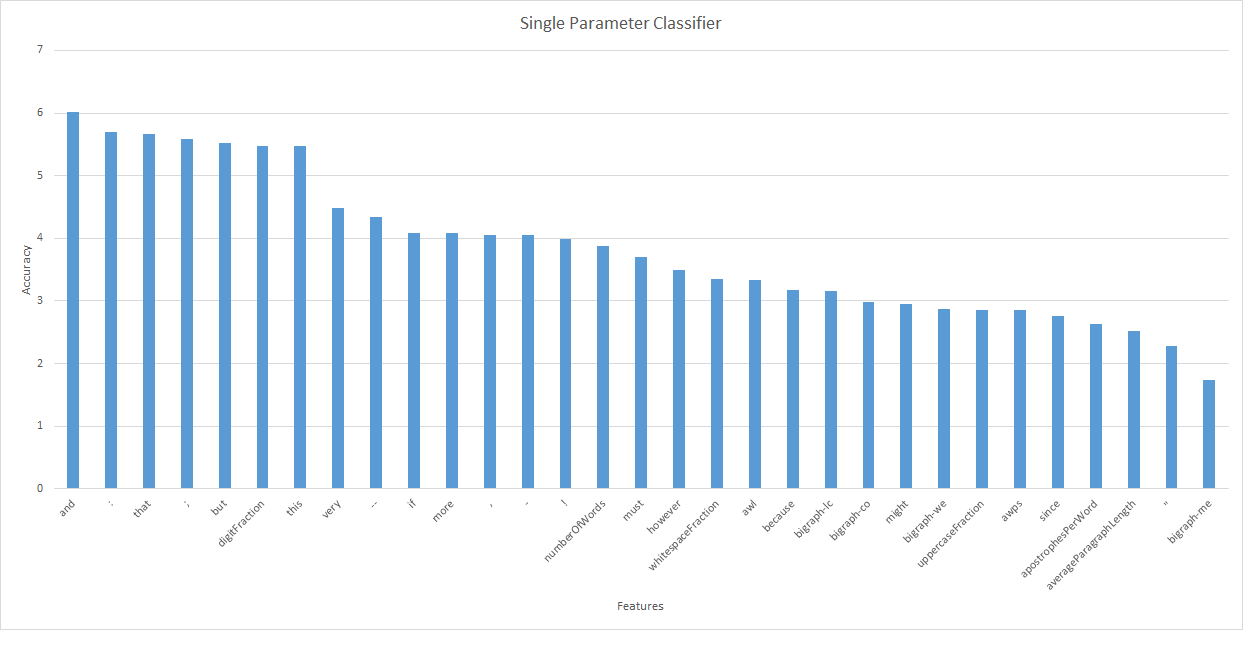
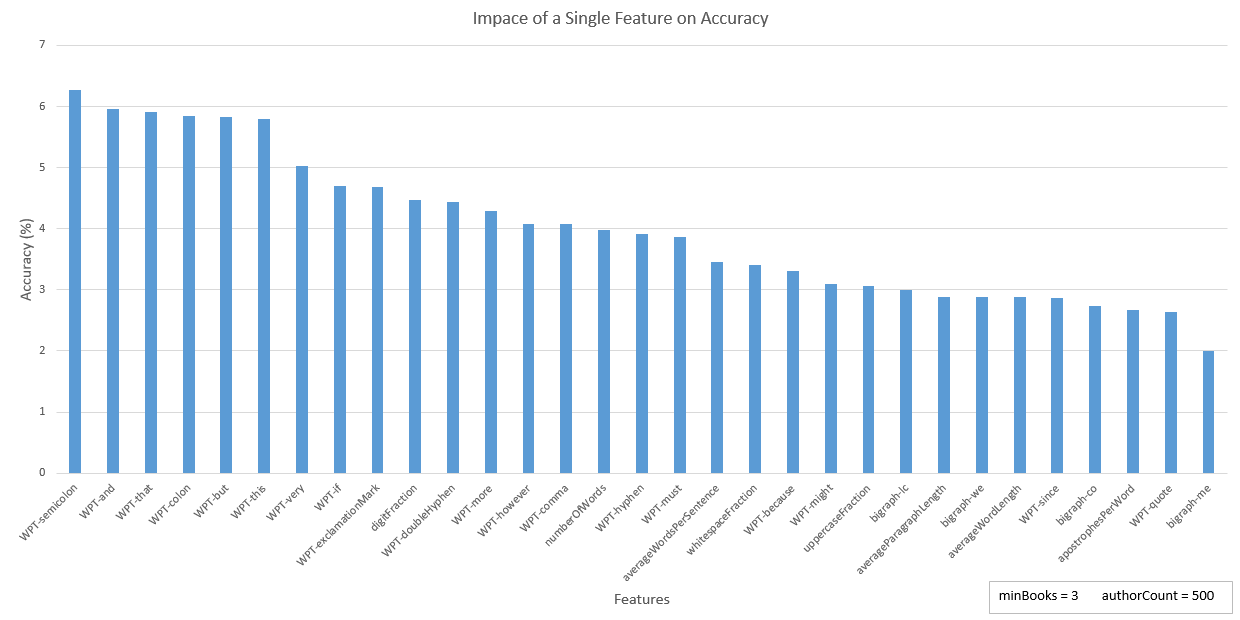
added single and adding features on accuracy

diff --git a/SourceCode/main.py b/SourceCode/main.py
@@ -113,29 +113,29 @@ def runOneSimulation(books):
     print("average accuracy: " + str(averageAccuracy))
     return averageAccuracy
     
-def weedForParameters(books):
+def singleParameters(books):
     allDataKeys = list(books[0].data.keys())
-    
+     
     print(allDataKeys)
     random.shuffle(allDataKeys)
     print(allDataKeys)
-    
+     
     #startingDataKey = allDataKeys[0]
-    
+     
     currentDataKeys = []
     #currentDataKeys = [ startingDataKey]
     for book in books:
         book.setDataKeys(currentDataKeys)
-    
+     
     #bestAccuracy = runOneSimulation(books)
     bestAccuracy = 0
-    
+     
     #with open("weedingParams.txt", 'w+') as oFile:
     with open("singleParams.txt", 'w+') as oFile:
         for key in allDataKeys:
             #if key == startingDataKey:
             #    continue
-            
+             
             currentDataKeys = [key]
             #currentDataKeys.append(key)
             print("testing with currentDataKeys: ")
@@ -162,11 +162,11 @@ def weedForParameters(books):
                 # oFile.write("new best accuracy: " + str(bestAccuracy))
                 # oFile.write('\n')
                 #===============================================================
-                
+                 
             oFile.write(key + "\t" + str(accuracy))
             oFile.write('\n')
-                
-        
+                 
+         
         print(currentDataKeys)    
         print("best Accuracy: " + str(bestAccuracy))
         #=======================================================================
@@ -175,6 +175,109 @@ def weedForParameters(books):
         # oFile.write("best Accuracy: " + str(bestAccuracy))
         #=======================================================================
         #oFile.write('\n')
+         
+        print("all: ")
+        print(allDataKeys)
+        
+def weedForParameters(books):
+    allDataKeys = list(books[0].data.keys())
+     
+    print(allDataKeys)
+    random.shuffle(allDataKeys)
+    print(allDataKeys)
+     
+    #startingDataKey = allDataKeys[0]
+     
+    currentDataKeys = []
+    #currentDataKeys = [ startingDataKey]
+    for book in books:
+        book.setDataKeys(currentDataKeys)
+     
+    #bestAccuracy = runOneSimulation(books)
+    bestAccuracy = 0
+     
+    with open("weedingParams.txt", 'w+') as oFile:
+    #with open("singleParams.txt", 'w+') as oFile:
+        for key in allDataKeys:
+            #if key == startingDataKey:
+            #    continue
+             
+            #currentDataKeys = [key]
+            currentDataKeys.append(key)
+            print("testing with currentDataKeys: ")
+            print(currentDataKeys)
+            for book in books:
+                book.setDataKeys(currentDataKeys)
+            accuracy = runOneSimulation(books)
+            if accuracy < bestAccuracy:
+                print("bad key: " + key)
+                #===============================================================
+                # oFile.write("bad key: " + key)
+                # oFile.write('\n')
+                # oFile.write("best accuracy: " + str(bestAccuracy))
+                # oFile.write('\n')
+                #===============================================================
+                currentDataKeys.remove(key)
+            else:
+                bestAccuracy = accuracy
+                print("good key: " + key)
+                print("new best accuracy: " + str(bestAccuracy))
+                #===============================================================
+                # oFile.write("good key: " + key)
+                # oFile.write('\n')
+                # oFile.write("new best accuracy: " + str(bestAccuracy))
+                # oFile.write('\n')
+                #===============================================================
+                 
+            oFile.write(key + "\t" + str(accuracy))
+            oFile.write('\n')
+                 
+         
+        print(currentDataKeys)    
+        print("best Accuracy: " + str(bestAccuracy))
+        #=======================================================================
+        # oFile.write(str(currentDataKeys))
+        # oFile.write('\n')    
+        # oFile.write("best Accuracy: " + str(bestAccuracy))
+        #=======================================================================
+        #oFile.write('\n')
+         
+        print("all: ")
+        print(allDataKeys)
+
+
+
+def testAddingParameters(books):
+    allDataKeys = list(books[0].data.keys())
+    
+    print(allDataKeys)
+    random.shuffle(allDataKeys)
+    print(allDataKeys)
+    
+    #startingDataKey = allDataKeys[0]
+    
+    currentDataKeys = []
+    #currentDataKeys = [ startingDataKey]
+    for book in books:
+        book.setDataKeys(currentDataKeys)
+    
+    #with open("weedingParams.txt", 'w+') as oFile:
+    with open("addingParams.txt", 'w+') as oFile:
+        for key in allDataKeys:
+            #if key == startingDataKey:
+            #    continue
+            
+            currentDataKeys.append(key)
+            #currentDataKeys.append(key)
+            print("testing with currentDataKeys: ")
+            print(currentDataKeys)
+            for book in books:
+                book.setDataKeys(currentDataKeys)
+            accuracy = runOneSimulation(books)
+                
+            oFile.write(key + "\t" + str(accuracy))
+            oFile.write('\n')
+            print(key + "\t" + str(accuracy))
         
         print("all: ")
         print(allDataKeys)
@@ -223,10 +326,12 @@ def main():
     
     #demo()
     #runWithMinBooksChanging()
-    runWithNumberOfAuthorsChanging()
+    #runWithNumberOfAuthorsChanging()
     
-    #books = GetBooks.getBooks(reParse = False, minNumberOfBooksRequired = 2)    
+    books = GetBooks.getBooks(reParse = False, minNumberOfBooksRequired = 3, numberOfAuthorsToUse = 500)    
     #weedForParameters(books)
+    testAddingParameters(books)
+    singleParameters(books)
     #===========================================================================
     # dataKeys = ['awl', '-', 'this', 'averageParagraphLength', 'awps', 'must', 'and', 'since', 'if', '--', 'uppercaseFraction', 'whitespaceFraction', 'numberOfWords', ';', 'bigraph-lc', 'however', 'apostrophesPerWord', '!', ':']
     # for book in books:
